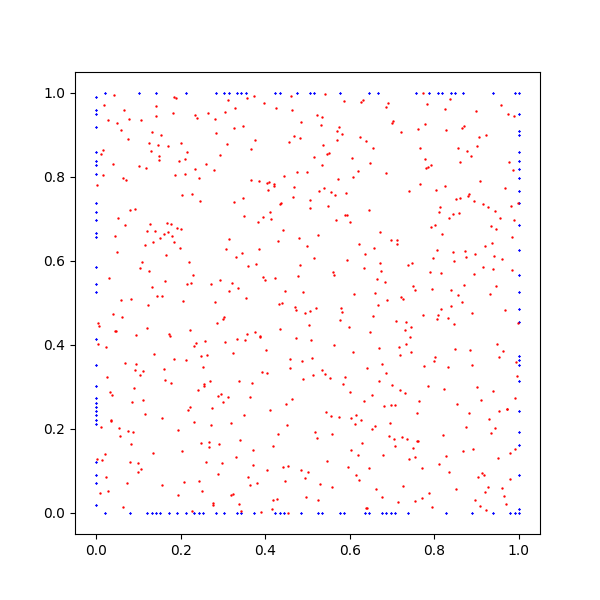
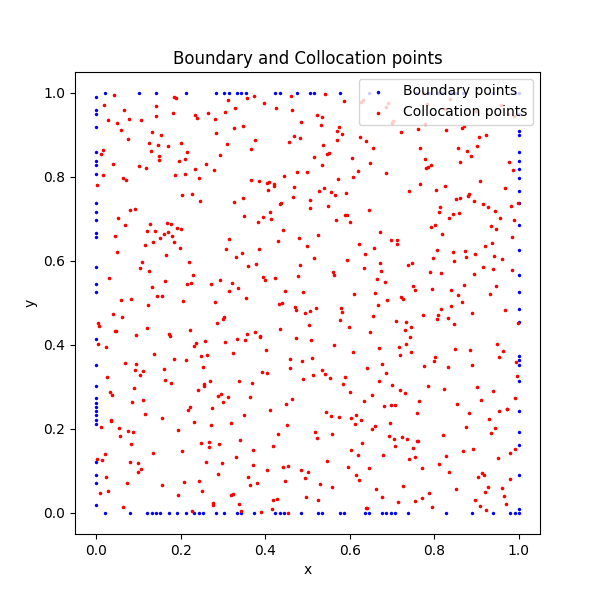
feature_added

diff --git a/train.py b/train.py
@@ -15,7 +15,7 @@ from torch import Tensor
 from data.training_data import training_data
 from models.network import PINN, UNET
 from util.util import log_args
-from util.plotting import plot_solution
+from util.plotting import plot_solution, plot_boundary_collocation_points
 
 # Setting gloabl parameters
 torch.set_default_dtype(torch.float32)
@@ -54,11 +54,10 @@ def main(args: argparse.Namespace):
     # Training data
     X_f_train_np_array, X_u_train_np_array, u_train_np_array, collocation_points = training_data(X, Y, phi, N_boundary, N_collocation)
     
-    # plot X_f_train_np_array
-    plt.figure(figsize=(6, 6))
-    plt.scatter(X_u_train_np_array[:, 0], X_u_train_np_array[:, 1], c="b", s=0.5, marker="x", label="Boundary points")
-    plt.scatter(collocation_points[:, 0], collocation_points[:, 1], c="r", s=0.5, marker="o", label="Collocation points")
-    plt.savefig(os.path.join(args.output_path, "boundary_collocation_points.png"))
+    # plot boundary and collocation points
+    plot_boundary_collocation_points(X_u_train_np_array, collocation_points, args.output_path)
+
+    exit()
 
     # Convert numpy arrays to torch tensors and move them to the device
     X_f_train = torch.from_numpy(X_f_train_np_array).float().to(device)     # shape = (N_boundary + N_collocation, 2)

diff --git a/util/plotting.py b/util/plotting.py
@@ -4,7 +4,18 @@ import numpy as np
 import torch
 from torch import Tensor
 
-def plot_solution(epoch: int, u_pred: Tensor, u_sol: Tensor, x: Tensor, y: Tensor, output_path):
+def plot_boundary_collocation_points(boundary_points: np.array, collocation_points: np.array, output_path: str):
+    plt.close()
+    plt.figure(figsize=(6, 6))
+    plt.title("Boundary and Collocation points")
+    plt.xlabel("x")
+    plt.ylabel("y")
+    plt.scatter(boundary_points[:, 0], boundary_points[:, 1], c="b", s=2.5, marker="x", label="Boundary points")
+    plt.scatter(collocation_points[:, 0], collocation_points[:, 1], c="r", s=2.5, marker="o", label="Collocation points")
+    plt.legend(loc="upper right")
+    plt.savefig(os.path.join(output_path, "boundary_collocation_points.png"))
+
+def plot_solution(epoch: int, u_pred: Tensor, u_sol: Tensor, x: Tensor, y: Tensor, output_path: str):
 
     plt.close()
 
